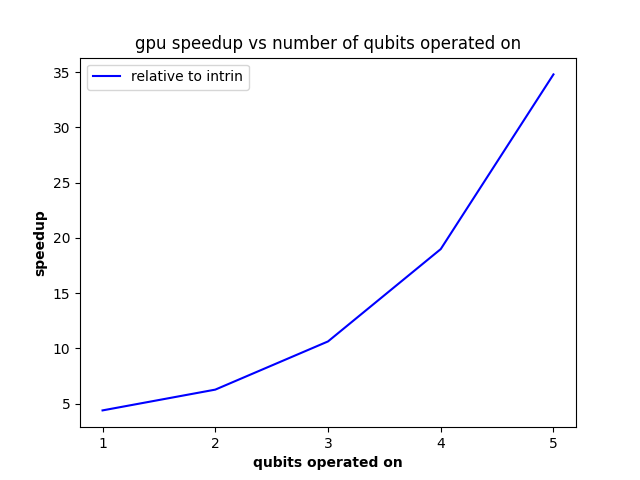
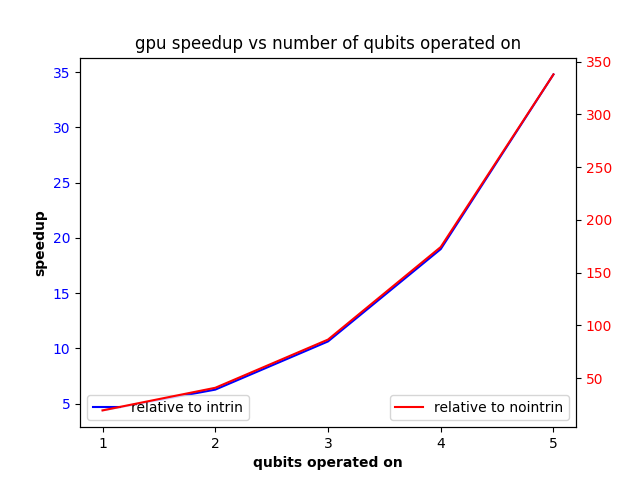
Updated plotting

diff --git a/timeparser.py b/timeparser.py
@@ -67,21 +67,28 @@ def plot_gpu_speedup_vs_vec_size_line():
     final_nointrin_speedup = stats.hmean(nointrin_speedup, axis=0)
     final_intrin_speedup = stats.hmean(intrin_speedup, axis=0)
 
-    #Plot figure
-    fig = plt.figure()
-    plt.plot(qs, final_intrin_speedup, 'b', label='relative to intrin')
+    #Create figure
+    fig, ax1 = plt.subplots()
+
+    #Add titles and labels
+    plt.title('gpu speedup vs vector size')
+    plt.xlabel('vector size (2^n)', fontweight='bold')
+    plt.ylabel('speedup', fontweight='bold')
+
+    #Plot
+    ax2 = ax1.twinx()
+    ax1.plot(qs, final_intrin_speedup, 'b', label='relative to intrin')
+    ax1.tick_params(axis='y', labelcolor='b')
+    ax2.plot(qs, final_nointrin_speedup, 'r', label='relative to nointrin')
+    ax2.tick_params(axis='y', labelcolor='r')
+    ax1.legend(loc='lower left')
+    ax2.legend(loc='lower right')
 
     #Apply linear regression and plot if r2 is sufficiently good
     m,b,r_val,p_val,std_err = stats.linregress(np.array(qs, dtype=float), np.array(final_intrin_speedup, dtype=float))
     if(r_val > 0.98):
         plt.plot(qs, m*np.array(qs, dtype=float)+b, '--k', label='linear interpolation')
         print('gpu speedup relative to intrin vs vec size of 2^n: ', m, b)
-
-    #Add titles and labels
-    plt.title('gpu speedup vs vector size')
-    plt.xlabel('vector size (2^n)', fontweight='bold')
-    plt.ylabel('speedup', fontweight='bold')
-    plt.legend()
 
     #save plot
     save_filename = 'plots/gpu_speedup_vs_state_vector_size.png'
@@ -169,9 +176,23 @@ def plot_gpu_speedup_vs_operator_size_line():
     final_nointrin_speedup = stats.hmean(nointrin_speedup, axis=0)
     final_intrin_speedup = stats.hmean(intrin_speedup, axis=0)
 
-    #Plot figure
-    fig = plt.figure()
-    plt.plot(operator_size, final_intrin_speedup, 'b', label='relative to intrin')
+    #Create figure
+    fig, ax1 = plt.subplots()
+
+    #Add titles and labels
+    plt.title('gpu speedup vs number of qubits operated on')
+    plt.xticks(operator_size)
+    plt.xlabel('qubits operated on', fontweight='bold')
+    plt.ylabel('speedup', fontweight='bold')
+
+    #Plot
+    ax2 = ax1.twinx()
+    ax1.plot(operator_size, final_intrin_speedup, 'b', label='relative to intrin')
+    ax1.tick_params(axis='y', labelcolor='b')
+    ax2.plot(operator_size, final_nointrin_speedup, 'r', label='relative to nointrin')
+    ax2.tick_params(axis='y', labelcolor='r')
+    ax1.legend(loc='lower left')
+    ax2.legend(loc='lower right')
 
     #Apply linear regression and plot if r2 is sufficiently good
     m,b,r_val,p_val,std_err = stats.linregress(np.array(operator_size, dtype=float), np.array(final_intrin_speedup, dtype=float))
@@ -179,20 +200,121 @@ def plot_gpu_speedup_vs_operator_size_line():
         plt.plot(operator_size, m*np.array(operator_size, dtype=float)+b, '--k', label='linear interpolation')
         print('gpu speedup relative to intrin vs vec size of 2^n: ', m, b)
 
-    #Add titles and labels
-    plt.title('gpu speedup vs number of qubits operated on')
-    plt.xticks(operator_size)
-    plt.xlabel('qubits operated on', fontweight='bold')
-    plt.ylabel('speedup', fontweight='bold')
-    plt.legend()
-
     #save plot
     save_filename = 'plots/gpu_speedup_vs_operator_size.png'
     plt.savefig(save_filename)
     plt.close(fig)
     print("Generated " + save_filename)
 
+def plot_gpu_speedup_vs_qubit_magnitude_line():
 
+
+    data = []
+    nointrin_speedup = []
+    intrin_speedup = []
+
+    for iter in range(NUM_ITER):
+        nointrin_speedup.append([]);
+        intrin_speedup.append([]);
+        lowest_qubit = []
+
+        #Split data into lists to plot
+        data = get_data('data/iterations/graph_data_qubitid_magnitude_iter_'+str(iter)+'.txt')
+        for d in data:
+            lowest_qubit.append((d['qids_list'][0]))
+            nointrin_speedup[-1].append(d['nointrin']/d['gpu']) #speedup is inverse of time
+            intrin_speedup[-1].append(d['intrin']/d['gpu']) #speedup is inverse of time
+
+    #final_nointrin_speedup = np.mean(nointrin_speedup, axis=0)
+    #final_intrin_speedup = np.mean(intrin_speedup, axis=0)
+    final_nointrin_speedup = stats.hmean(nointrin_speedup, axis=0)
+    final_intrin_speedup = stats.hmean(intrin_speedup, axis=0)
+
+    #Create figure
+    fig, ax1 = plt.subplots()
+
+    #Add titles and labels
+    plt.title('gpu speedup vs magnitude of 5 consecutive qubits')
+    plt.xticks(lowest_qubit)
+    plt.xlabel('magnitude of lowest qubit id', fontweight='bold')
+    plt.ylabel('speedup', fontweight='bold')
+    
+    #Plot
+    ax2 = ax1.twinx()
+    ax1.plot(lowest_qubit, final_intrin_speedup, 'b', label='relative to intrin')
+    ax1.tick_params(axis='y', labelcolor='b')
+    ax2.plot(lowest_qubit, final_nointrin_speedup, 'r', label='relative to nointrin')
+    ax2.tick_params(axis='y', labelcolor='r')
+    ax1.legend(loc='lower left')
+    ax2.legend(loc='lower right')
+
+    #Apply linear regression and plot if r2 is sufficiently good
+    m,b,r_val,p_val,std_err = stats.linregress(np.array(lowest_qubit, dtype=float), np.array(final_intrin_speedup, dtype=float))
+    if(r_val > 0.98):
+        plt.plot(lowest_qubit, m*np.array(lowest_qubit, dtype=float)+b, '--k', label='linear interpolation')
+        print('gpu speedup relative to intrin vs vec size of 2^n: ', m, b)
+
+
+    #save plot
+    save_filename = 'plots/gpu_speedup_vs_qubit_magnitude.png'
+    plt.savefig(save_filename)
+    plt.close(fig)
+    print("Generated " + save_filename)
+
+def plot_gpu_speedup_vs_qubit_spacing():
+
+
+    data = []
+    nointrin_speedup = []
+    intrin_speedup = []
+
+    for iter in range(NUM_ITER):
+        nointrin_speedup.append([]);
+        intrin_speedup.append([]);
+        spacing = []
+
+        #Split data into lists to plot
+        data = get_data('data/iterations/graph_data_qubitid_spacing_iter_'+str(iter)+'.txt')
+        for d in data:
+            spacing.append((d['qids_list'][1]) - d['qids_list'][0])
+            nointrin_speedup[-1].append(d['nointrin']/d['gpu']) #speedup is inverse of time
+            intrin_speedup[-1].append(d['intrin']/d['gpu']) #speedup is inverse of time
+
+    #final_nointrin_speedup = np.mean(nointrin_speedup, axis=0)
+    #final_intrin_speedup = np.mean(intrin_speedup, axis=0)
+    final_nointrin_speedup = stats.hmean(nointrin_speedup, axis=0)
+    final_intrin_speedup = stats.hmean(intrin_speedup, axis=0)
+
+    #Create figure
+    fig, ax1 = plt.subplots()
+
+    #Add titles and labels
+    plt.title('gpu speedup vs spacing between 2 qubits for 20-qubit state vector')
+    plt.xticks(spacing)
+    plt.xlabel('spacing between two qubits with highest at qubit 19', fontweight='bold')
+    plt.ylabel('speedup', fontweight='bold')
+
+    #Plot
+    ax2 = ax1.twinx()
+    ax1.plot(spacing, final_intrin_speedup, 'b', label='relative to intrin')
+    ax1.tick_params(axis='y', labelcolor='b')
+    ax2.plot(spacing, final_nointrin_speedup, 'r', label='relative to nointrin')
+    ax2.tick_params(axis='y', labelcolor='r')
+    ax1.legend(loc='lower left')
+    ax2.legend(loc='lower right')
+
+    #Apply linear regression and plot if r2 is sufficiently good
+    m,b,r_val,p_val,std_err = stats.linregress(np.array(spacing, dtype=float), np.array(final_intrin_speedup, dtype=float))
+    if(r_val > 0.98):
+        plt.plot(spacing, m*np.array(spacing, dtype=float)+b, '--k', label='linear interpolation')
+        print('gpu speedup relative to intrin vs vec size of 2^n: ', m, b)
+
+
+    #save plot
+    save_filename = 'plots/gpu_speedup_vs_qubit_spacing.png'
+    plt.savefig(save_filename)
+    plt.close(fig)
+    print("Generated " + save_filename)
 #OLD CODE SNIPPETS
 #------------------------------------------------
 #print('num_qubits: ' + d['num_qubits'] + ' speedup over nointrin: ' + str(d['nointrin']/d['gpu']) + ' speedup over intrin: ' + str(d['intrin']/d['gpu']))
@@ -256,6 +378,10 @@ def main():
 
     #Analysis of the effect of the operator matrix size (aka number of quibits operated on)
     plot_gpu_speedup_vs_operator_size_line()
+
+    #Analysis of the effect of the magnitude of the qubit ids
+    plot_gpu_speedup_vs_qubit_magnitude_line()
+    plot_gpu_speedup_vs_qubit_spacing()
 
 if __name__ == "__main__":
     main()
